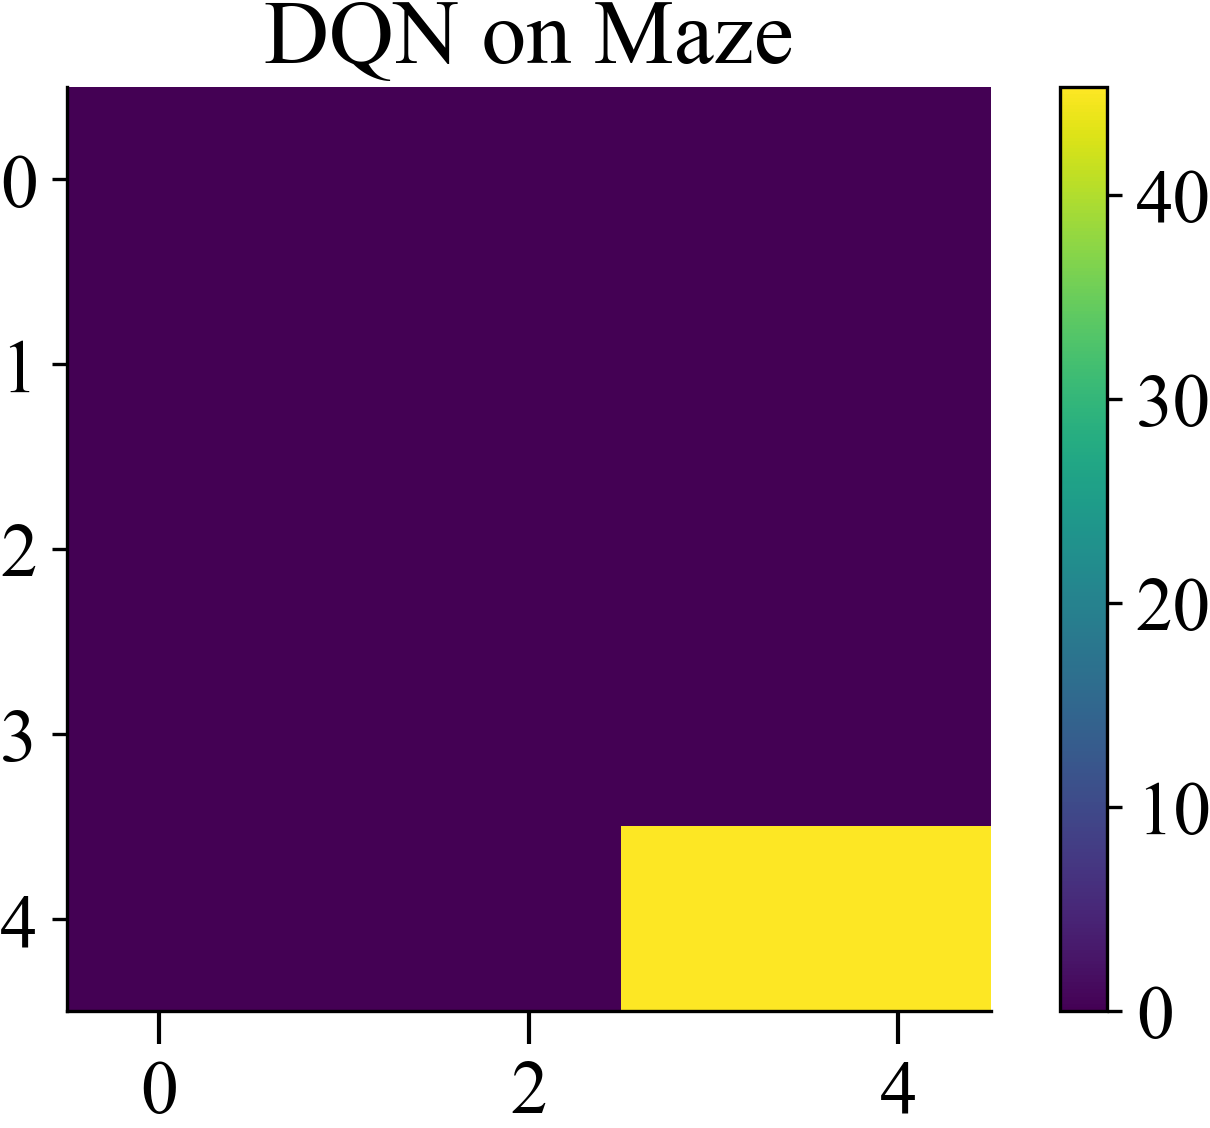
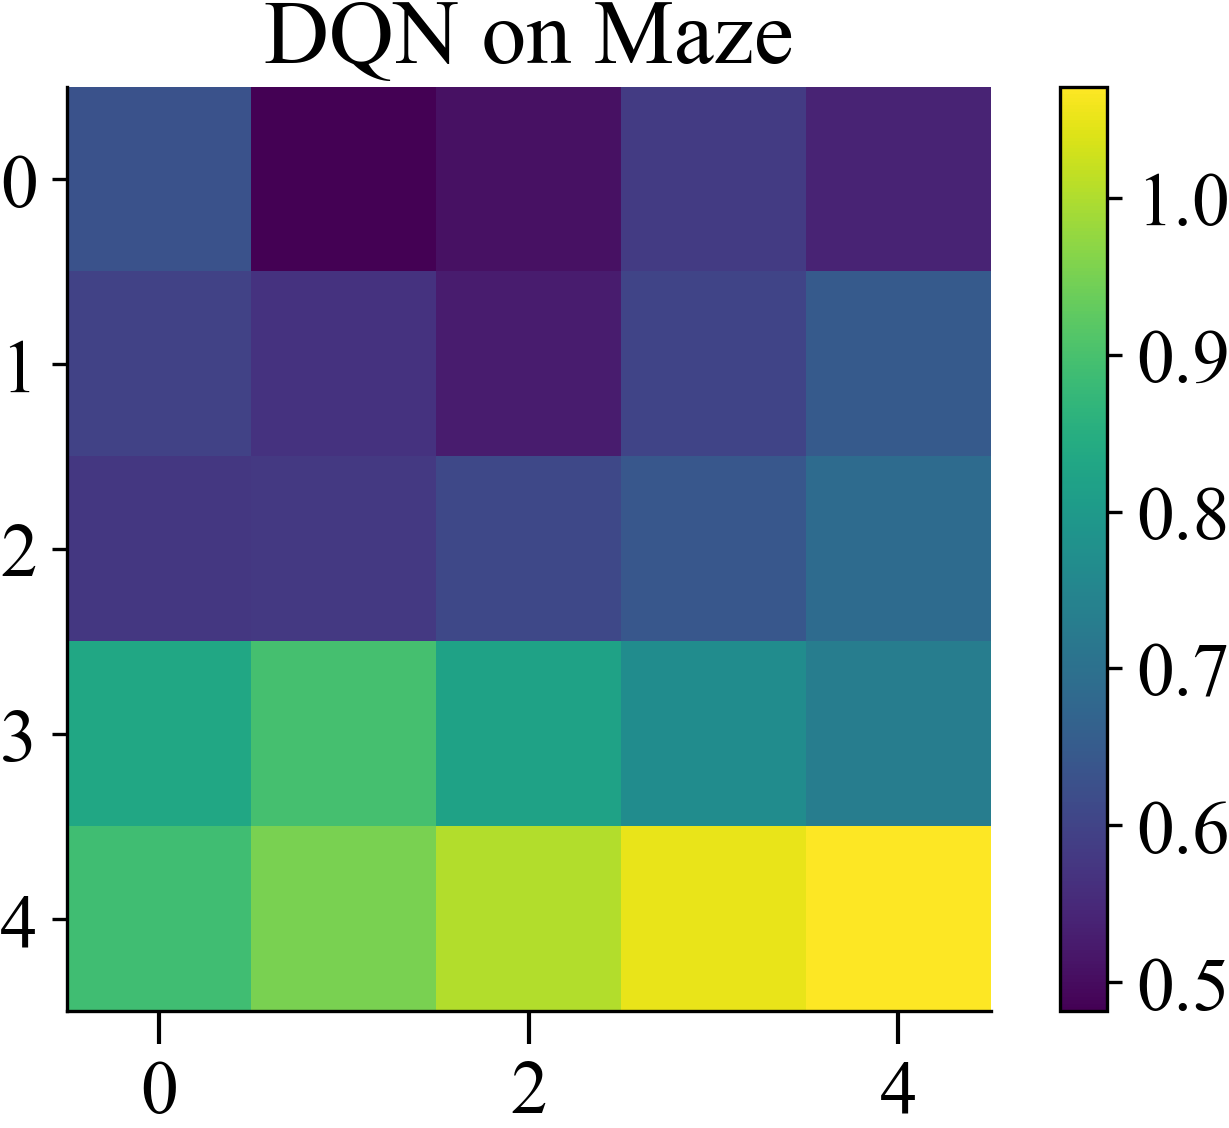
pushing changes in maze analysis

diff --git a/toy_mdp/maze_image_analysis.py b/toy_mdp/maze_image_analysis.py
@@ -146,7 +146,7 @@ def perform_deep_vi(Q, rewards, dyn_mats, dones, lr=1e-4, gamma=0.99, n_epochs=4
             Q_target.load_state_dict(Q.state_dict())
 
         q_max, actions = Q_target(states).max(dim=1)
-        td_target = rewards + gamma * dones * (dyn_mats @ q_max.detach())
+        td_target = rewards + gamma * (1-dones) * (dyn_mats @ q_max.detach())
         td_loss = l1(Q(states), td_target.T)
         losses.append(td_loss.detach().numpy())
 
@@ -208,7 +208,9 @@ if __name__ == "__main__":
         def get_Q_mlp():
             return nn.Sequential(
                 Lambda(lambda x: x / 255),
-                RFF(3, 8, 3, stride=1),
+                # RFF(3, 8, 3, stride=1),
+                nn.Conv2d(3, 8, 3, stride=1),
+                nn.ReLU(),
                 nn.Conv2d(8, 8, 3, stride=1),
                 nn.ReLU(),
                 nn.Conv2d(8, 8, 3, stride=1),
@@ -223,7 +225,7 @@ if __name__ == "__main__":
 
 
         Q = get_Q_mlp()
-        q_values, losses = perform_deep_vi(Q, rewards, dyn_mats, dones, n_epochs=10000)
+        q_values, losses = perform_deep_vi(Q, rewards, dyn_mats, dones, n_epochs=1500)
         returns = eval_q_policy(Q)
         doc.print(f"Avg return for DQN is {returns}")
 

diff --git a/toy_mdp/maze_image_analysis.md b/toy_mdp/maze_image_analysis.md
@@ -9,3 +9,38 @@ function can be exponentially more complex.
 torch.manual_seed(0)
 rewards, dones, dyn_mats = get_discrete_mdp()
 ```
+
+## DQN w/ Function Approximator
+
+Here we plot the value function learned via deep Q Learning
+(DQN) using a neural network function approximator.
+
+```python
+def get_Q_mlp():
+    return nn.Sequential(
+        Lambda(lambda x: x / 255),
+        # RFF(3, 8, 3, stride=1),
+        nn.Conv2d(3, 8, 3, stride=1),
+        nn.ReLU(),
+        nn.Conv2d(8, 8, 3, stride=1),
+        nn.ReLU(),
+        nn.Conv2d(8, 8, 3, stride=1),
+        nn.ReLU(),
+        View(8*58*58),
+        nn.Linear(8*58*58, 400),
+        nn.ReLU(),
+        nn.Linear(400, 400),
+        nn.ReLU(),
+        nn.Linear(400, 4),
+    )
+
+
+Q = get_Q_mlp()
+q_values, losses = perform_deep_vi(Q, rewards, dyn_mats, dones, n_epochs=1500)
+returns = eval_q_policy(Q)
+doc.print(f"Avg return for DQN is {returns}")
+```
+
+```
+Avg return for DQN is -0.4000000000000002
+```
